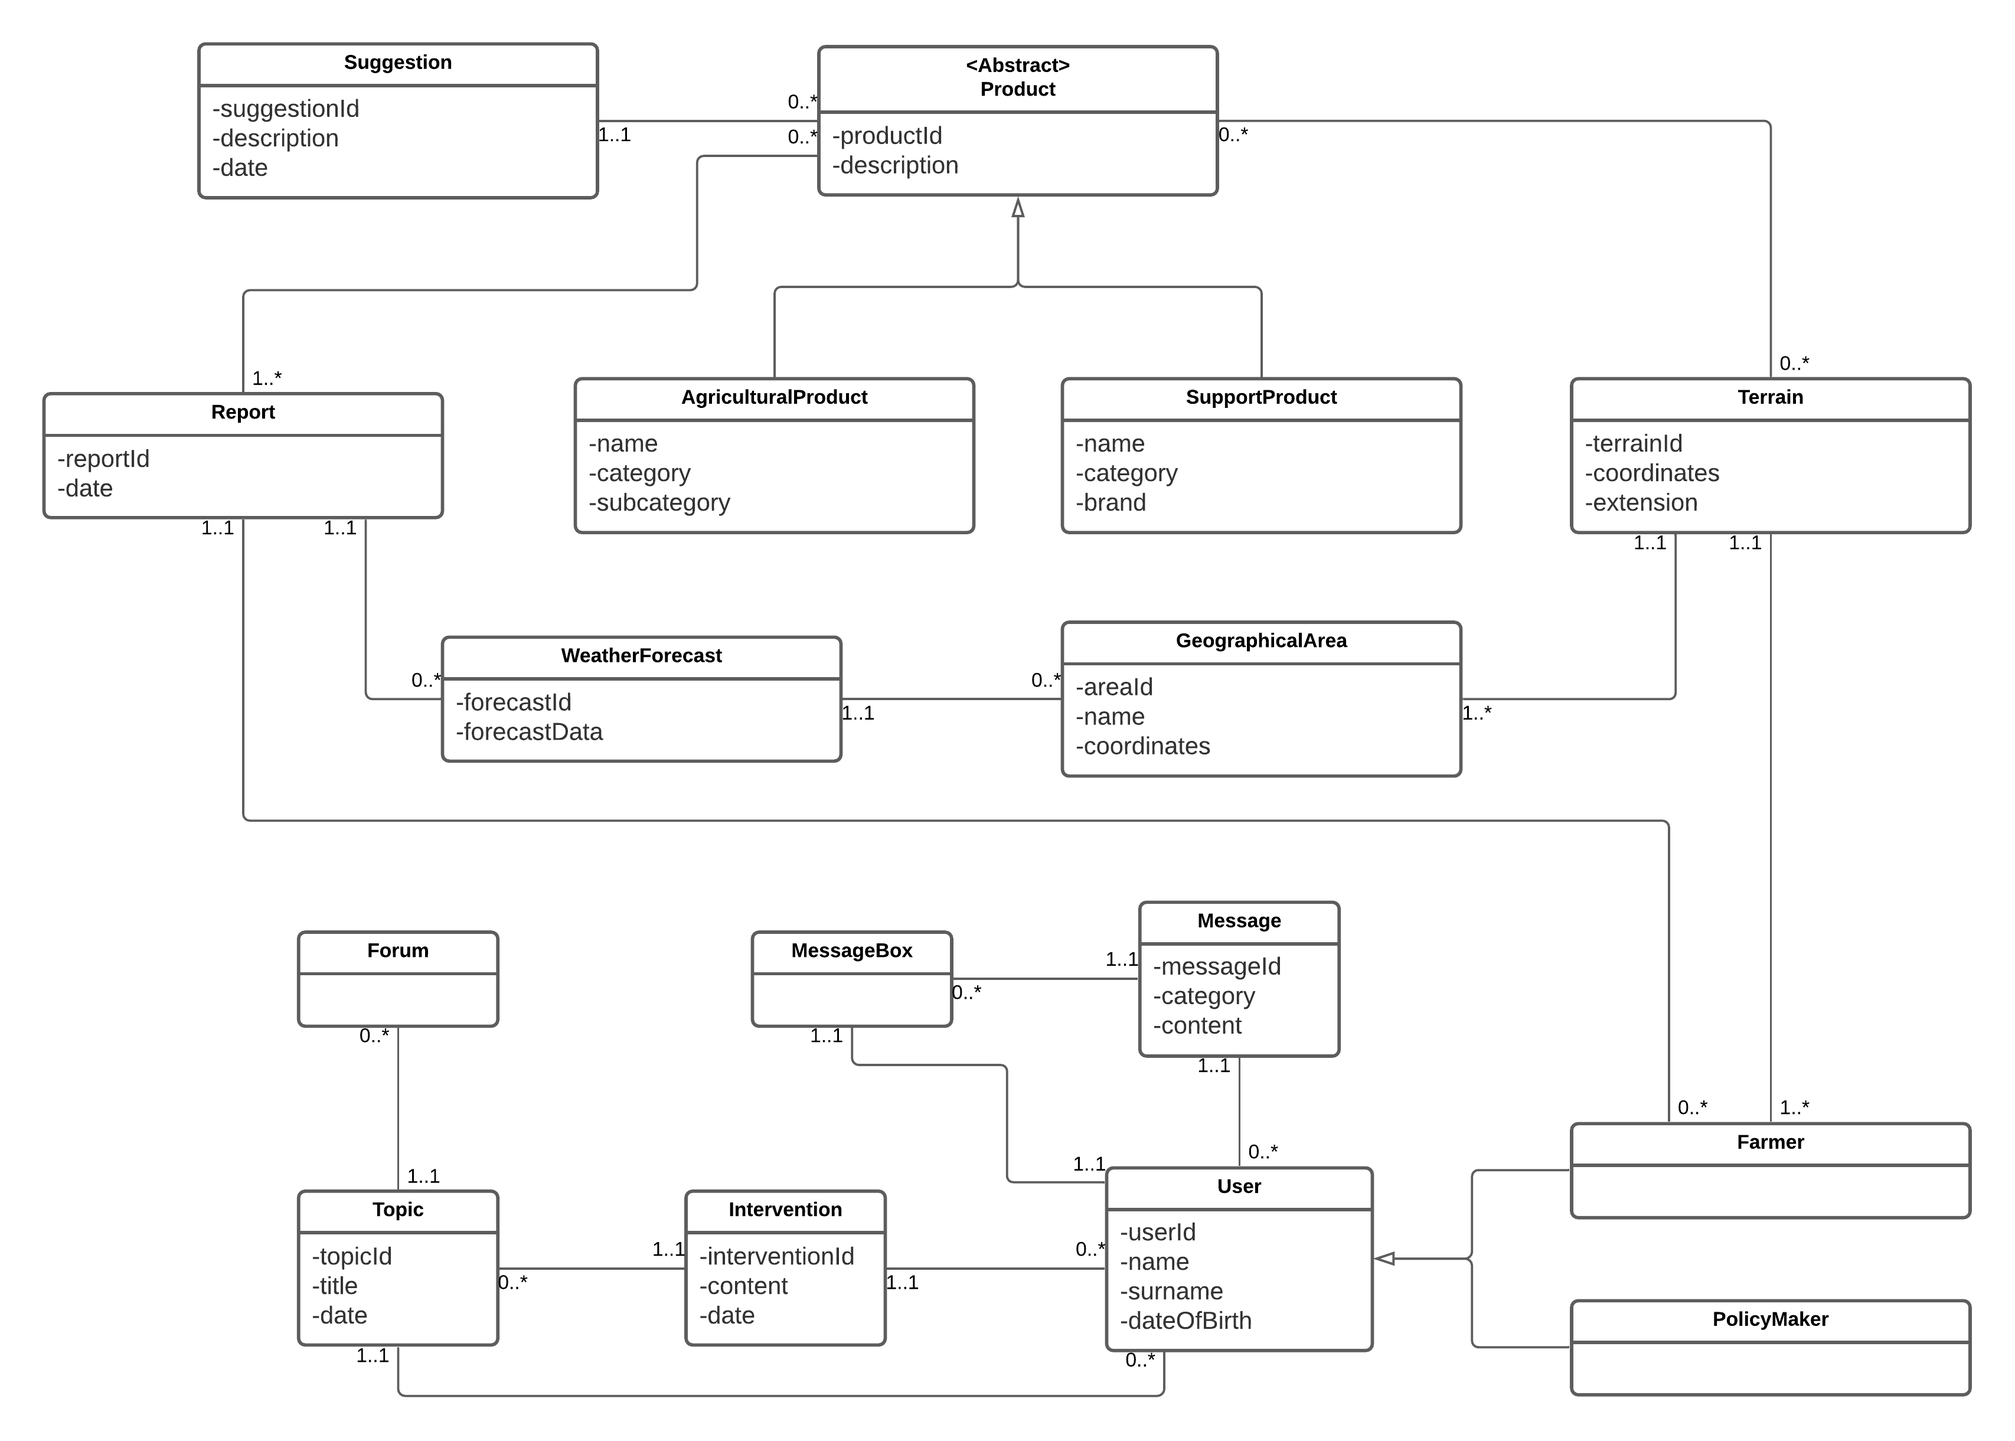
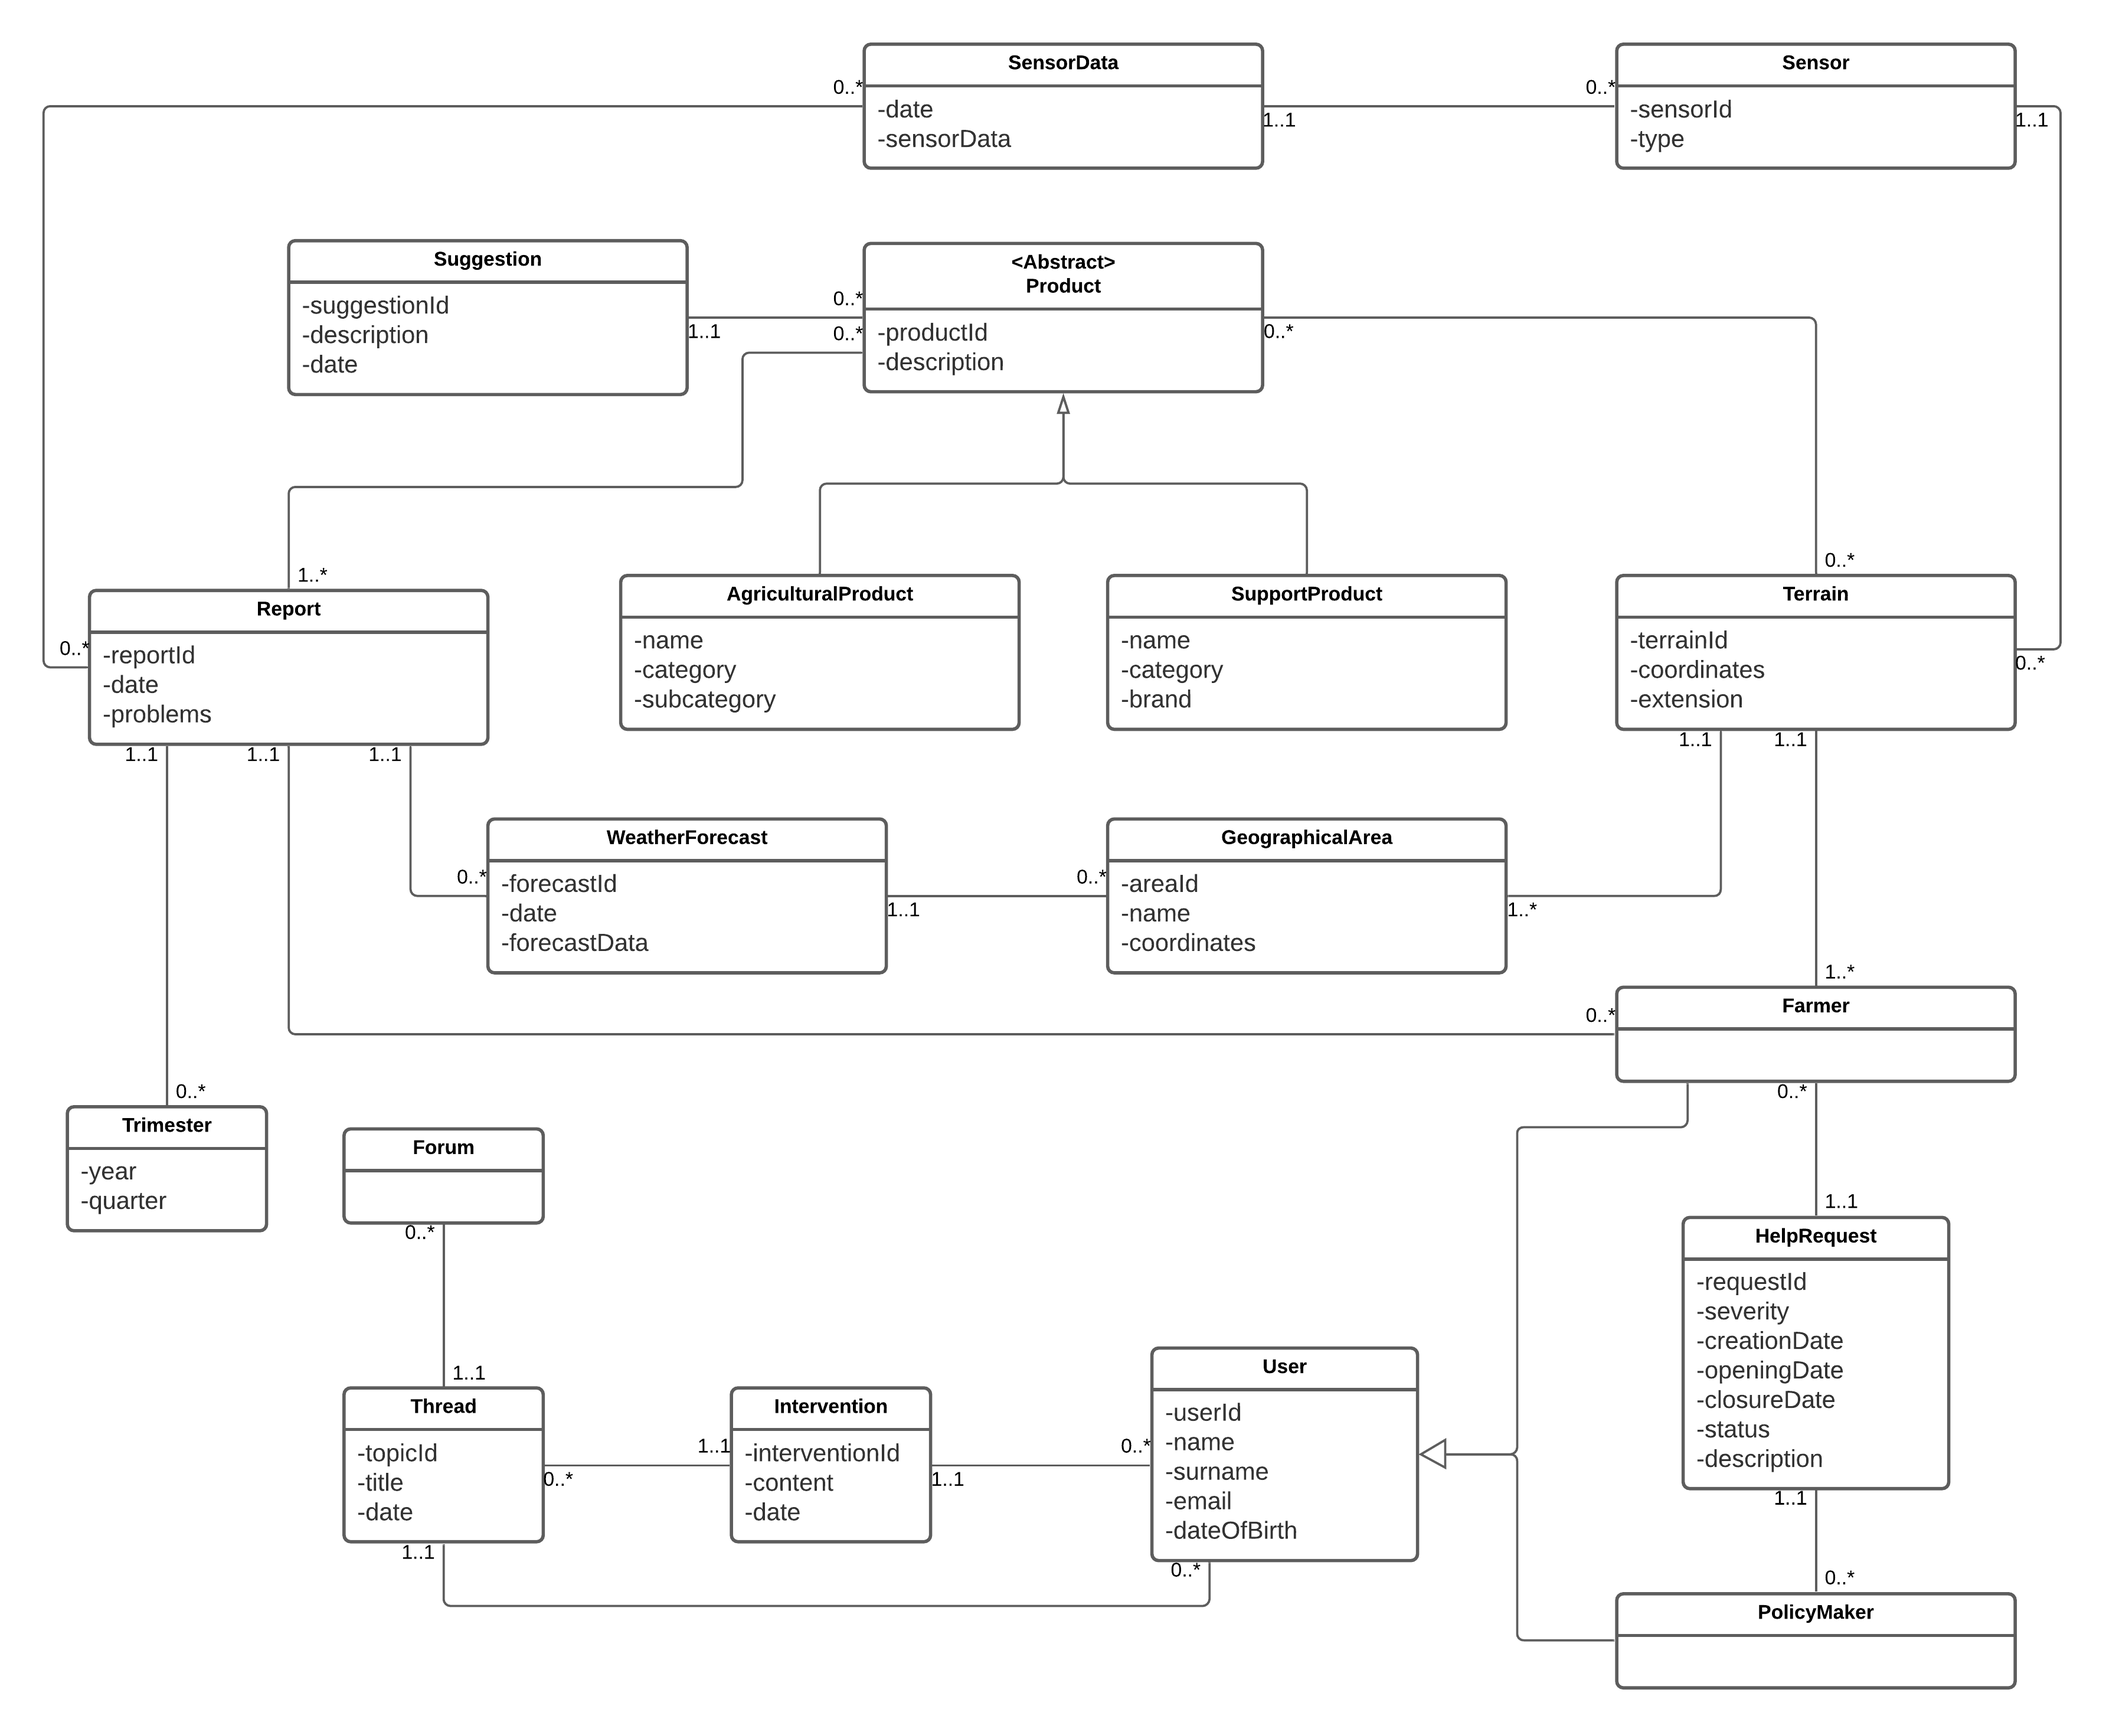
Updated class diagram and added class diagram description

diff --git a/RASD/rasd.tex b/RASD/rasd.tex
@@ -182,9 +182,36 @@ The system will be implemented from scratch, completely replacing the legacy sys
 The system will make use of some already existing functionalities, such as in weather forecasting where there is 
 already an existing platform for collecting and visualizing data (https://www.tsdps.telangana.gov.in/aws.jsp).
 \subsubsection{Class diagram}
+The class diagram in \ref{fig:classDiagram} is a high-level representation of the system. The main elements in the diagram are:
+\begin{itemize}
+    \item \textbf{User}: a user of the DREAM platform. More specifically, a user can be:
+    \begin{itemize}
+        \item \textbf{Farmer}
+        \item \textbf{Policy Maker}
+    \end{itemize} 
+    \item \textbf{Help Request}: represents a help request created by a farmer and taken in charge by a policy maker.
+    \item \textbf{Forum}: represents the platform's forum, containing discussions grouped in threads.
+    \item \textbf{Thread}: represents a thread of the forum.
+    \item \textbf{Intervention}: represents an intervention in a forum discussion.
+    \item \textbf{Terrain}: represents an area of property of a farmer destinated to agricultural use.
+    \item \textbf{Sensor}: represents a generic sensor installed in a terrain to retrieve data such as irrigation or soil humidity.
+    \item \textbf{Sensor Data}: high level astraction of the data retrieved by sensors and inserted in reports.
+    \item \textbf{Product}: represents a generic agricultural product. Products can be subdivided in:
+    \begin{itemize}
+        \item \textbf{Agricultural Products}: goods produced by farmers (e.g. vegetables).
+        \item \textbf{Support Products}: auxiliary products used in goods production (e.g. fertilizers).
+    \end{itemize} 
+    \item \textbf{Suggestion}: represents a suggestion related to a product.
+    \item \textbf{Geographical Area}: represents a wide area containing multiple farmer's terrains. The Telangana territory is subdivided into areas to facilitate the workload division between policy makers.
+    \item \textbf{Weather Forecasts}: represents a weather forecast for a specific date. Contains various informations such as weather conditions, sunrise and sunset times, precipitations, etc..
+    \item \textbf{Report}: represents a report containing information about goods production, compiled by farmers at the end of the crop collecting phase.
+    \item \textbf{Trimester}: represents a trimester of a year.
+\end{itemize}
 \begin{figure}[ht!]
+    \centering
     \includegraphics[scale=0.45]{classDiagram.png}
     \caption{Class diagram}
+    \label{fig:classDiagram}
 \end{figure}
 \newpage
 \subsubsection{State diagrams}
